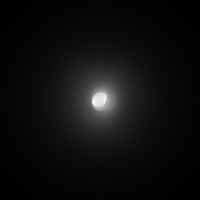
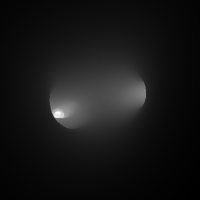
New point cloud generation
May work, may blow up the pc

Changed region(s): [[0.24, 0.33, 0.75, 0.66]]

diff --git a/code/lib/engine/pointCloudGenerator.py b/code/lib/engine/pointCloudGenerator.py
@@ -1,49 +1,59 @@
 import open3d as o3d
-import numpy as np
 import time
+import numpy as np
 
 class PointCloudGenerator:
     def __init__(self, intrinsic_matrix):
+        # Initialize the point cloud generator with the camera's intrinsic matrix
         self.intrinsic_matrix = intrinsic_matrix
-        self.vis = o3d.visualization.Visualizer()
-        self.vis.create_window()
-        self.pcd = o3d.geometry.PointCloud()
-        self.vis.add_geometry(self.pcd)
+        self.vis = o3d.visualization.Visualizer()  # Create a visualizer object
+        self.vis.create_window()  # Create a window for visualization
+        self.pcd = o3d.geometry.PointCloud()  # Create an empty point cloud object
+        self.vis.add_geometry(self.pcd)  # Add the point cloud to the visualizer
 
     def depth2pointcloud(self, depth_img):
-        H, W = depth_img.shape
-        fx = self.intrinsic_matrix[0, 0]
-        fy = self.intrinsic_matrix[1, 1]
-        cx = self.intrinsic_matrix[0, 2]
-        cy = self.intrinsic_matrix[1, 2]
+        # Convert a depth image to a point cloud
+        H, W = depth_img.shape  # Get the height and width of the depth image
+        fx = self.intrinsic_matrix[0, 0]  # Focal length in x direction
+        fy = self.intrinsic_matrix[1, 1]  # Focal length in y direction
+        cx = self.intrinsic_matrix[0, 2]  # Principal point x-coordinate
+        cy = self.intrinsic_matrix[1, 2]  # Principal point y-coordinate
 
+        # Create a grid of (x, y) coordinates
         x = np.linspace(0, W - 1, W)
         y = np.linspace(0, H - 1, H)
         xv, yv = np.meshgrid(x, y)
-        zv = depth_img
+        zv = depth_img  # Depth values
 
+        # Convert depth image to 3D points
         x = (xv - cx) * zv / fx
         y = (yv - cy) * zv / fy
         z = zv
 
+        # Stack the x, y, z coordinates into a single array
         points = np.stack((x, y, z), axis=-1).reshape(-1, 3)
         return points
 
     def update_point_cloud(self, depth_img):
         # Update the point cloud with new depth image
-        points = self.depth2pointcloud(depth_img)
-        self.pcd.points = o3d.utility.Vector3dVector(points)
-        self.vis.update_geometry(self.pcd)
-        self.vis.poll_events()
-        self.vis.update_renderer()
+        points = self.depth2pointcloud(depth_img)  # Convert depth image to point cloud
+        self.pcd.points = o3d.utility.Vector3dVector(points)  # Update the point cloud object
+        self.vis.update_geometry(self.pcd)  # Update the visualizer with the new point cloud
+        self.vis.poll_events()  # Process GUI events for the visualizer
+        self.vis.update_renderer()  # Update the rendering
 
     def run(self, depth_img_generator):
+        # Run the point cloud generator with a depth image generator
         try:
             while True:
-                depth_img = next(depth_img_generator)
-                self.update_point_cloud(depth_img)
+                depth_img = next(depth_img_generator)  # Get the next depth image
+                self.update_point_cloud(depth_img)  # Update the point cloud
                 time.sleep(0.1)  # Adjust the sleep time as needed for real-time updates
         except StopIteration:
-            pass
+            pass  # Stop if the generator is exhausted
         finally:
-            self.vis.destroy_window()
+            self.vis.destroy_window()  # Destroy the visualizer window
+
+    def save_pc(self, filename):
+        # Save the current point cloud to a file
+        o3d.io.write_point_cloud(filename, self.pcd)

diff --git a/code/lib/engine/onlineSimulationBO.py b/code/lib/engine/onlineSimulationBO.py
@@ -465,6 +465,31 @@ class onlineSimulationWithNetwork(object):
         args.human = True
         direction = np.array([0, 0, 0])  
 
+        # Initialize PointCloudGenerator
+        # Define the intrinsic matrix of the camera
+        intrinsic_matrix = np.array([[175 / 1.008, 0, 100],
+                                    [0, 175 / 1.008, 100],
+                                    [0, 0, 1]])
+
+        # Create an instance of the PointCloudGenerator with the intrinsic matrix
+        point_cloud_generator = PointCloudGenerator(intrinsic_matrix)
+
+        # Define a generator function to yield depth images continuously
+        def depth_img_generator():
+            while True:
+                # Step the simulation to get the next frame
+                p.stepSimulation()
+                # Get the RGB and depth images from the current camera pose
+                rgb_img, depth_img, rgb_img_ori = self.get_imagesPRY(yaw / np.pi * 180, pitch / np.pi * 180, roll / np.pi * 180, t, pos_vector)
+                # Yield the depth image to the generator
+                yield depth_img
+
+        # Start point cloud visualization in a separate thread
+        # Create a new thread to run the point cloud generator
+        point_cloud_thread = threading.Thread(target=point_cloud_generator.run, args=(depth_img_generator(),))
+        # Start the thread
+        point_cloud_thread.start()
+
         while 1:
             tic = time.time()
             p.stepSimulation()
@@ -654,6 +679,19 @@ class onlineSimulationWithNetwork(object):
 
         #Initialize robot
         m_robot = BroncoRobot1()
+
+        # Initialize PointCloudGenerator
+        point_cloud_generator = PointCloudGenerator(intrinsic_matrix)
+
+        def depth_img_generator():
+            while True:
+                p.stepSimulation()
+                rgb_img, depth_img, rgb_img_ori = self.get_imagesPRY(yaw / np.pi * 180, pitch / np.pi * 180, roll / np.pi * 180, t, pos_vector)
+                yield depth_img
+
+        # Start point cloud visualization in a separate thread
+        point_cloud_thread = threading.Thread(target=point_cloud_generator.run, args=(depth_img_generator(),))
+        point_cloud_thread.start()
 
         while 1:
             tic = time.time()
